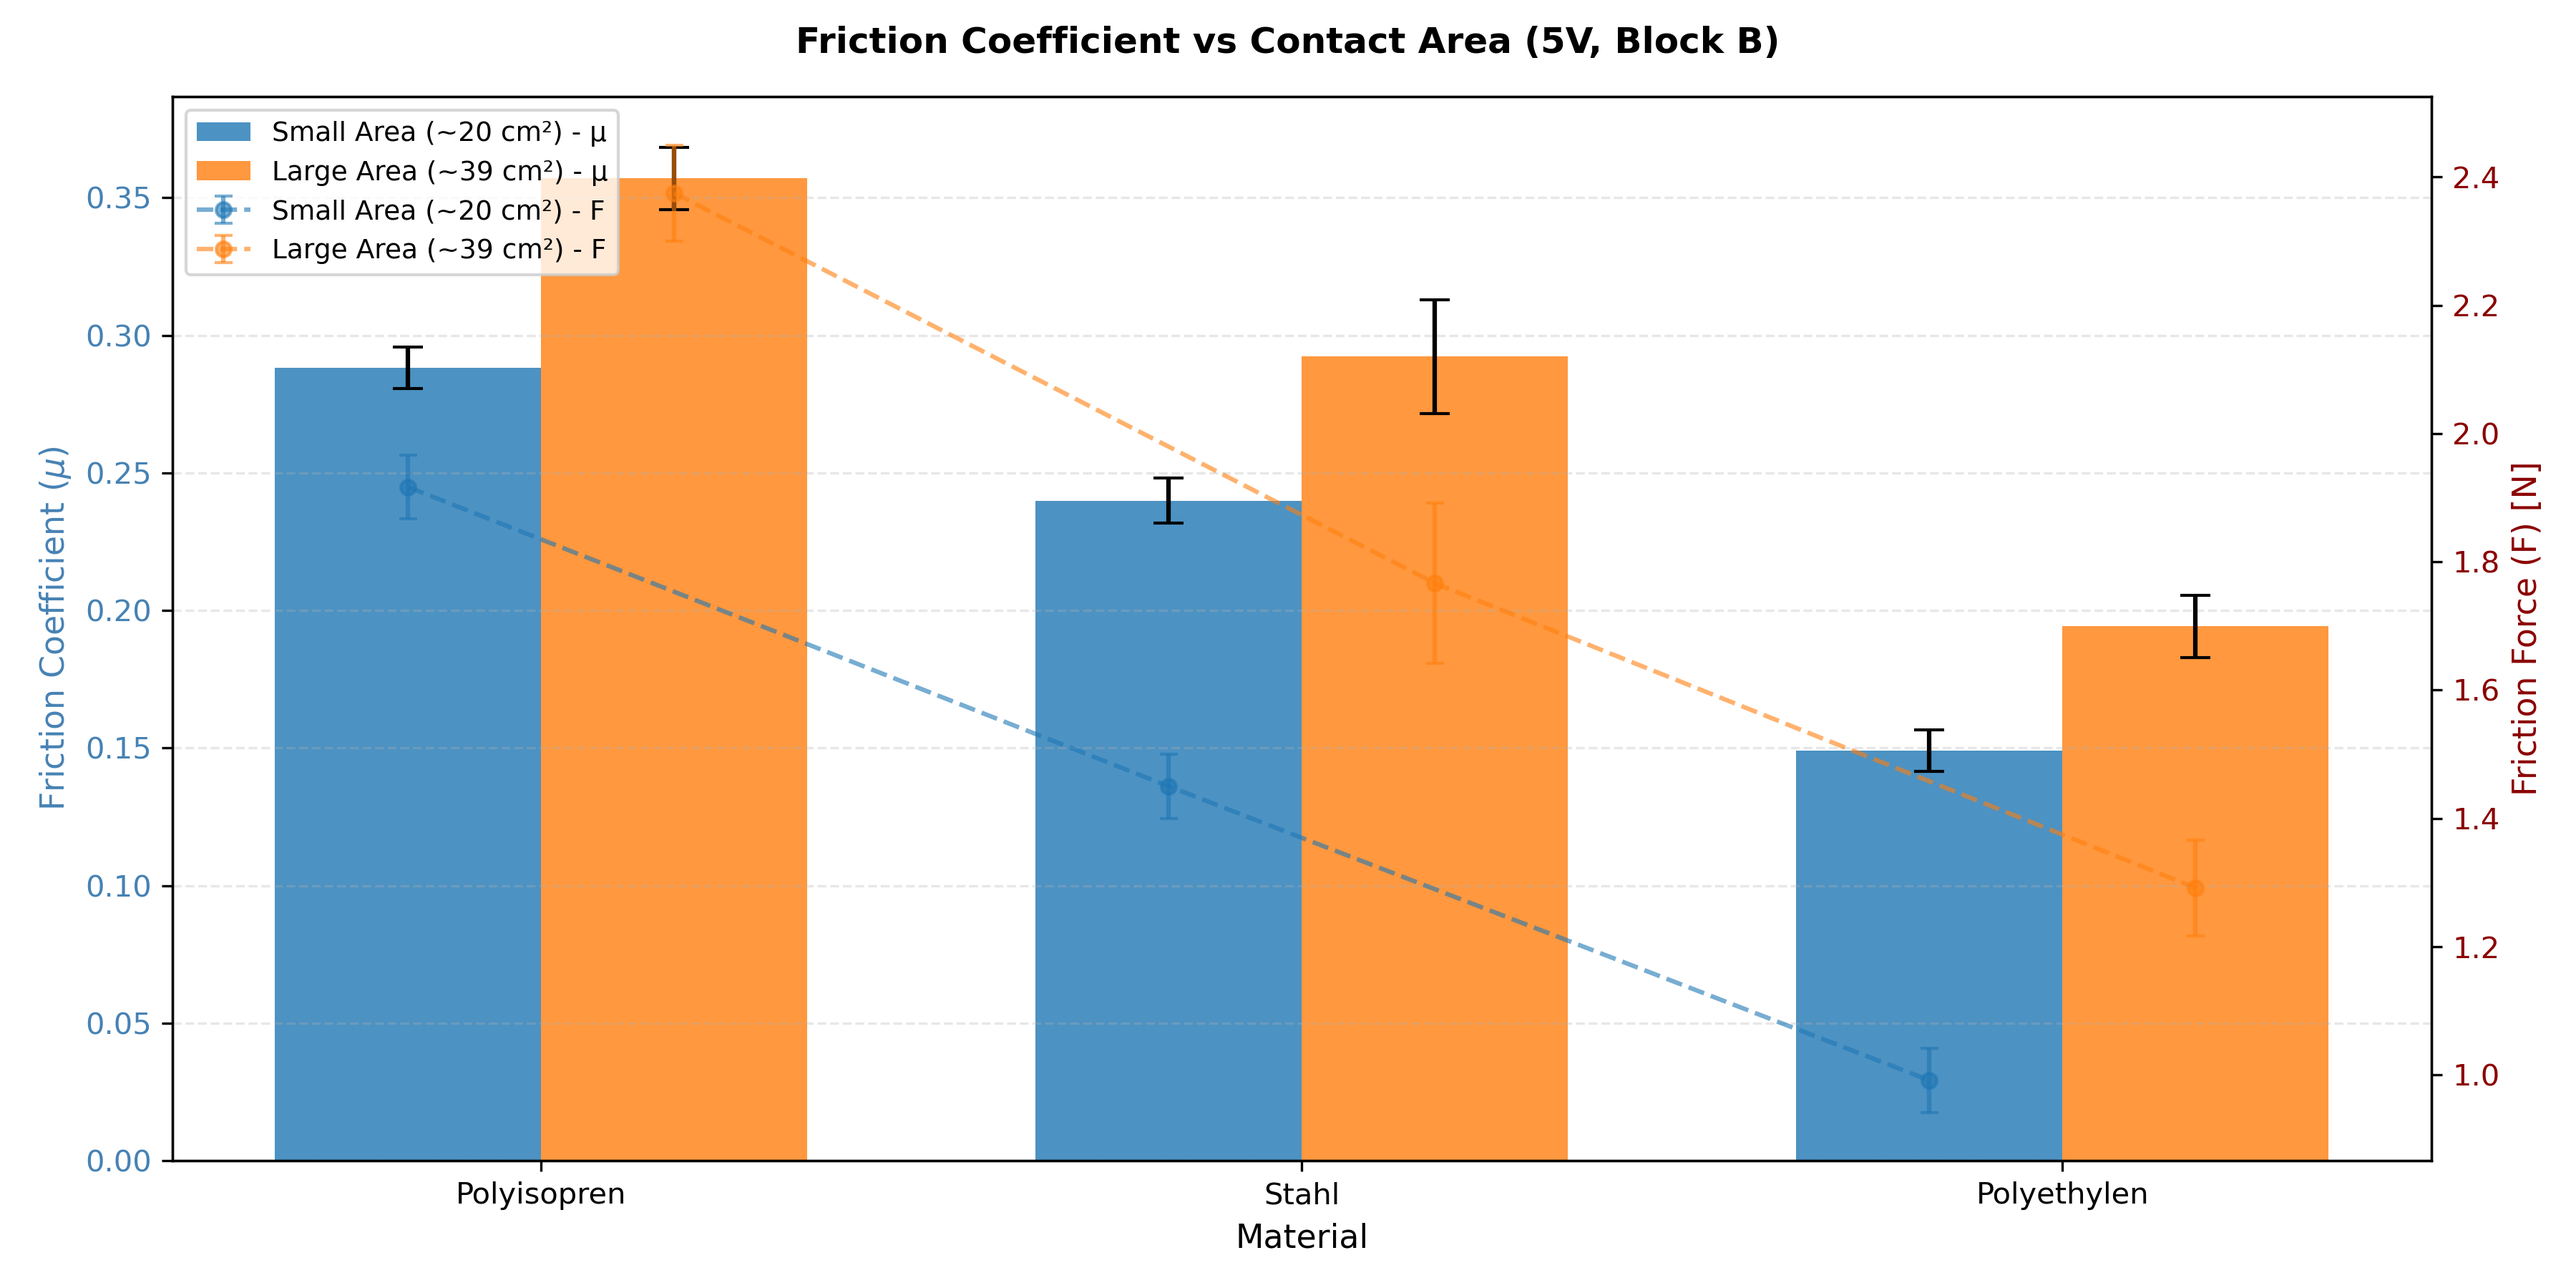
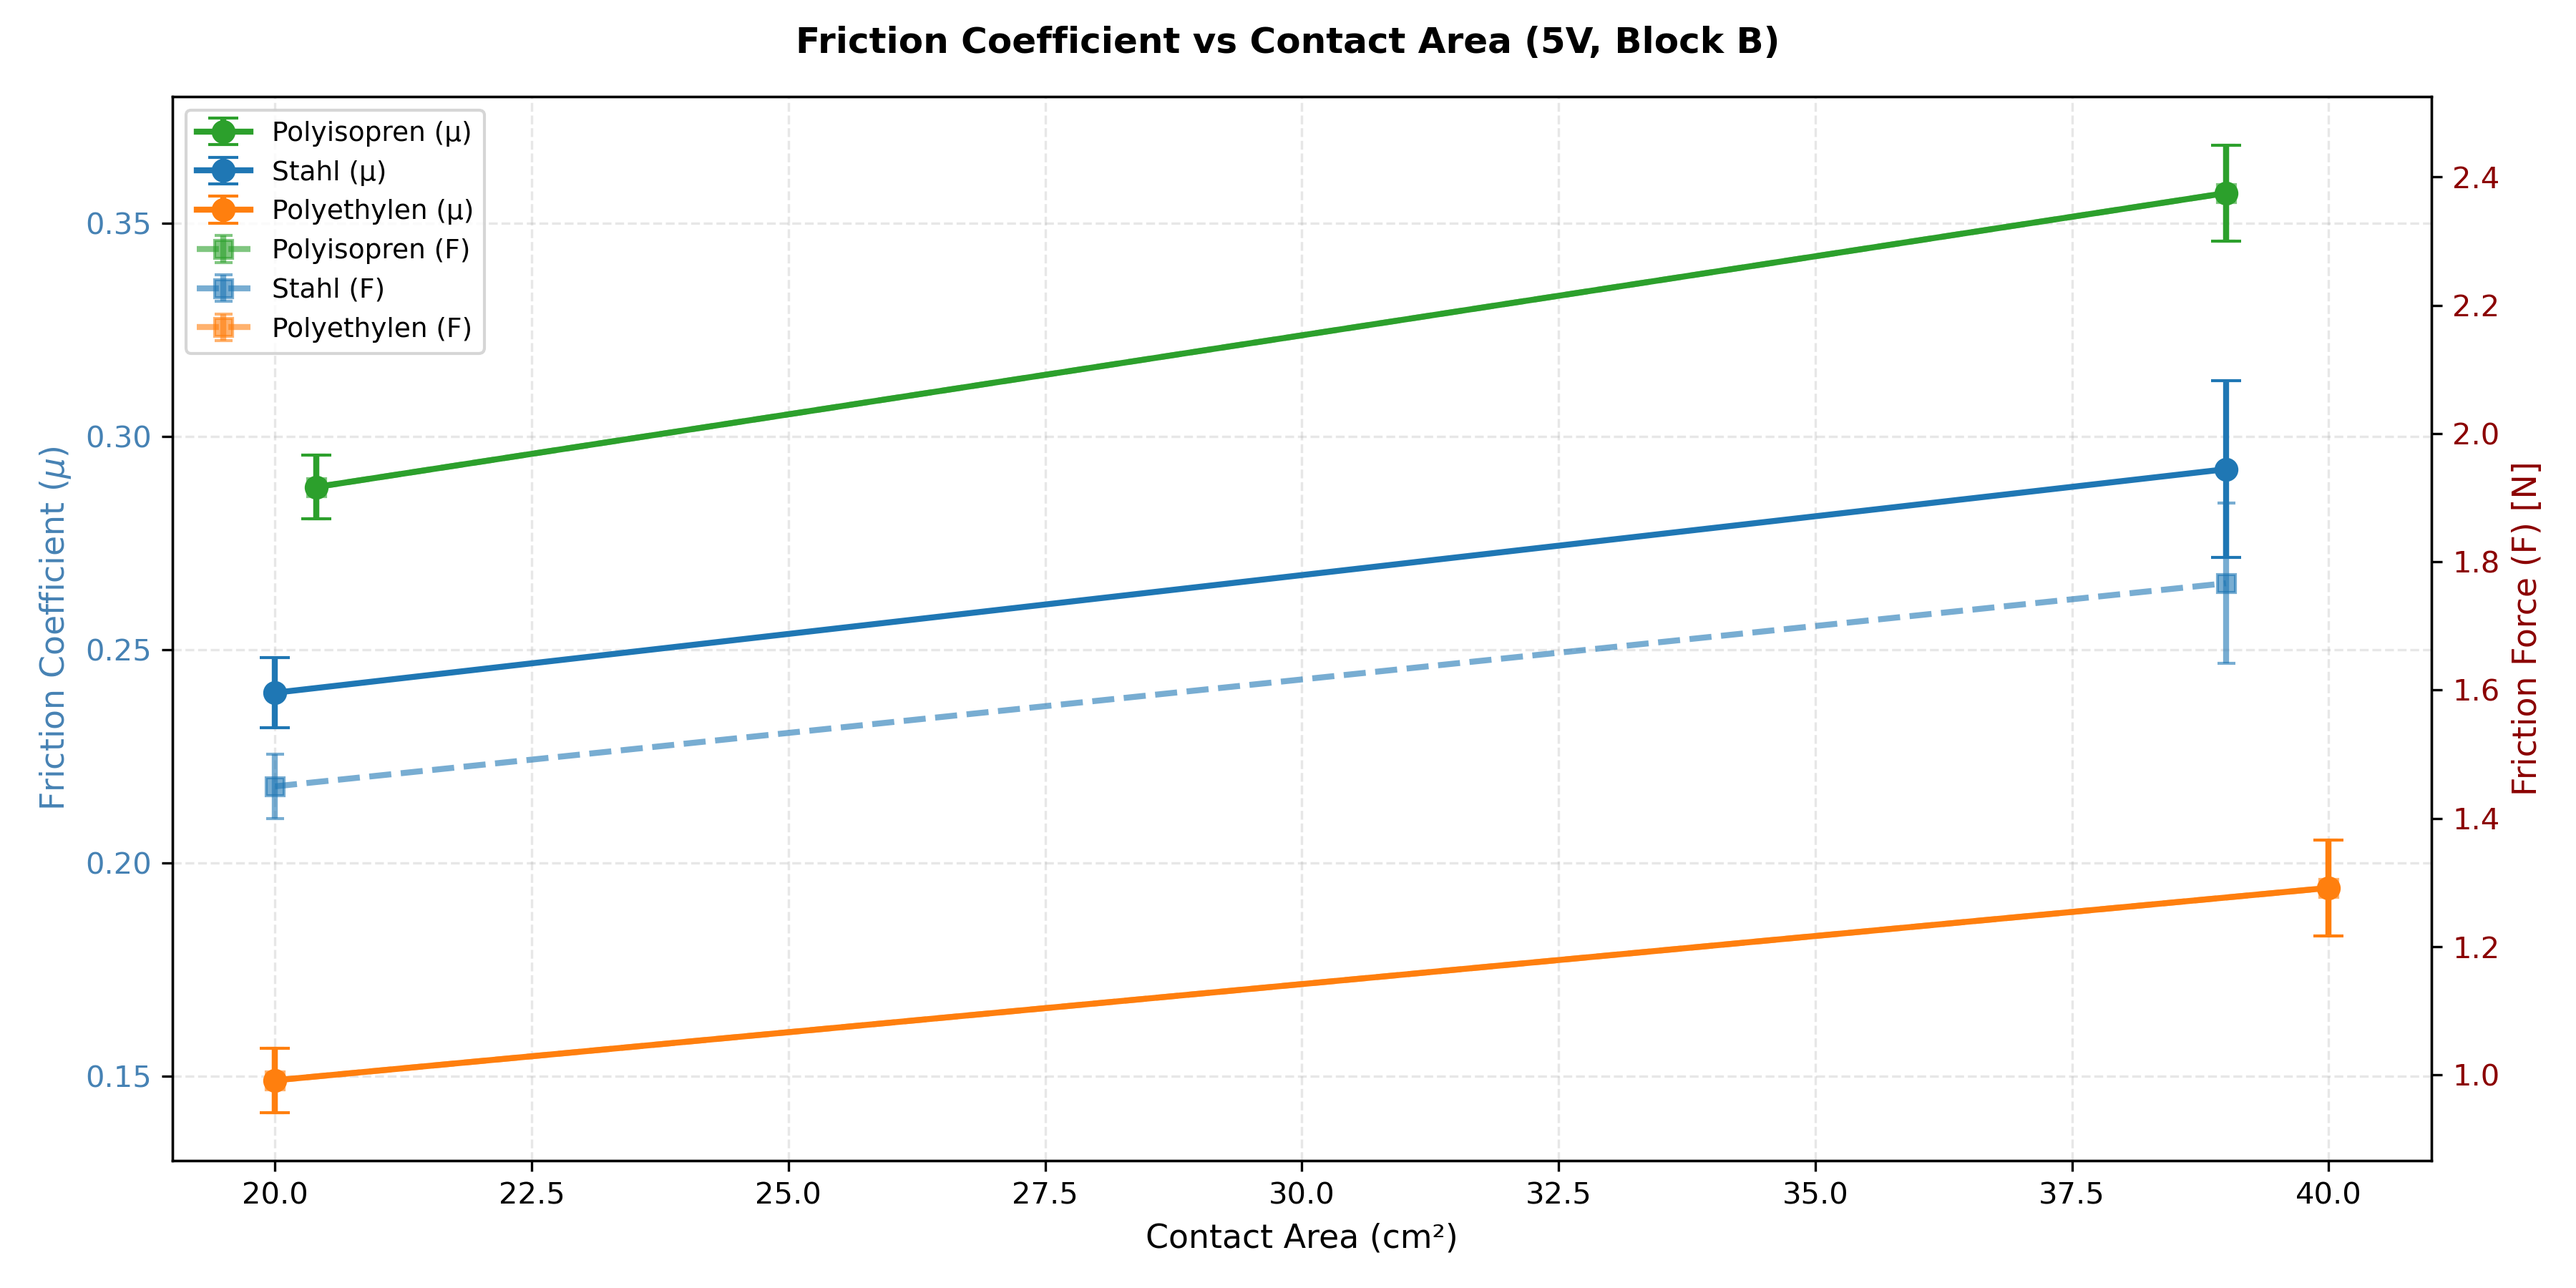
new

diff --git a/src/plot_generator.py b/src/plot_generator.py
@@ -20,7 +20,7 @@ def get_material_label(material_name):
     return material_map.get(material_name, material_name)
 
 def plot_mu_vs_force(df, output_path):
-    r"""图1: 摩擦系数 vs 法向力 (重量变化实验)
+    r"""图1: 摩擦系数 vs 重量 (重量变化实验)
     左Y轴: 摩擦系数 μ
     右Y轴: 摩擦力 F
     """
@@ -37,52 +37,42 @@ def plot_mu_vs_force(df, output_path):
         messwert_delta=('Messwert_Delta', 'max')
     ).reset_index()
 
-    # 排序
+    # 排序并添加重量编号
     block_order = ['B', 'B+1', 'B+1+2', 'B+1+2+3', 'B+1+2+3+4']
     agg_df['Block_Config'] = pd.Categorical(agg_df['Block_Config'], categories=block_order, ordered=True)
     agg_df = agg_df.sort_values('Block_Config')
+    # 将Block_Config映射到数字重量 (1, 2, 3, 4, 5)
+    agg_df['Weight'] = agg_df['Block_Config'].cat.codes + 1
 
-    # 绘制μ (左Y轴)
-    materials = agg_df['Material'].unique()
+    # 颜色定义
     colors = {'Stahl': '#1f77b4', 'Weiss': '#ff7f0e', 'Schwarz': '#2ca02c'}
-    width = 0.25
-    x = np.arange(len(block_order))
     
-    for i, mat in enumerate(materials):
+    # 绘制μ (左Y轴) - 线条图
+    for mat in agg_df['Material'].unique():
         mat_data = agg_df[agg_df['Material'] == mat]
-        # 对齐数据
-        mat_data = mat_data.set_index('Block_Config').reindex(block_order).reset_index()
-        
-        offset = (i - 1) * width
-        ax1.bar(x + offset, mat_data['mu_avg'], width, label=f"{get_material_label(mat)} (μ)", 
-                yerr=mat_data['mu_delta'], capsize=5, alpha=0.8, color=colors.get(mat, None))
+        ax1.errorbar(mat_data['Weight'], mat_data['mu_avg'], yerr=mat_data['mu_delta'], 
+                     label=f"{get_material_label(mat)} (μ)", fmt='-o', capsize=5, 
+                     color=colors.get(mat, None), linewidth=2, markersize=7)
 
-    ax1.set_xlabel('Block Configuration (Mass Increase)', fontsize=11)
+    ax1.set_xlabel('Weight (Number of Blocks)', fontsize=11)
     ax1.set_ylabel(r'Friction Coefficient ($\mu$)', fontsize=11, color='steelblue')
     ax1.tick_params(axis='y', labelcolor='steelblue')
-    ax1.set_xticks(x)
-    ax1.set_xticklabels(block_order)
-    ax1.grid(axis='y', linestyle='--', alpha=0.3)
+    ax1.set_xticks([1, 2, 3, 4, 5])
+    ax1.grid(True, linestyle='--', alpha=0.3)
 
     # 创建右Y轴 (摩擦力F)
     ax2 = ax1.twinx()
     
-    for i, mat in enumerate(materials):
+    for mat in agg_df['Material'].unique():
         mat_data = agg_df[agg_df['Material'] == mat]
-        # 对齐数据
-        mat_data = mat_data.set_index('Block_Config').reindex(block_order).reset_index()
-        
-        offset = (i - 1) * width
-        # 在中心位置绘制F的线条和点
-        x_pos = x + offset
-        ax2.errorbar(x_pos, mat_data['messwert_avg'], yerr=mat_data['messwert_delta'], 
-                    fmt='o--', color=colors.get(mat, None), linewidth=2, 
+        ax2.errorbar(mat_data['Weight'], mat_data['messwert_avg'], yerr=mat_data['messwert_delta'], 
+                    fmt='--s', color=colors.get(mat, None), linewidth=2, 
                     markersize=6, capsize=3, label=f"{get_material_label(mat)} (F)", alpha=0.6)
 
     ax2.set_ylabel('Friction Force (F) [N]', fontsize=11, color='darkred')
     ax2.tick_params(axis='y', labelcolor='darkred')
 
-    fig.suptitle('Friction Coefficient vs Normal Force (5V, Large Area)', fontsize=12, fontweight='bold')
+    fig.suptitle('Friction Coefficient vs Weight (5V, Large Area)', fontsize=12, fontweight='bold')
     
     # 合并两个图例
     lines1, labels1 = ax1.get_legend_handles_labels()
@@ -179,47 +169,29 @@ def plot_mu_vs_area(df, output_path):
         messwert_delta=('Messwert_Delta', 'max')
     ).reset_index()
 
-    materials = agg_df['Material'].unique()
+    # 颜色定义
     colors = {'Stahl': '#1f77b4', 'Weiss': '#ff7f0e', 'Schwarz': '#2ca02c'}
-    x = np.arange(len(materials))
-    width = 0.35
+    
+    # 绘制μ的线条图 (左Y轴) - 按面积排序
+    for mat in agg_df['Material'].unique():
+        mat_data = agg_df[agg_df['Material'] == mat].sort_values('Area_cm2')
+        ax1.errorbar(mat_data['Area_cm2'], mat_data['mu_avg'], yerr=mat_data['mu_delta'],
+                     label=f"{get_material_label(mat)} (μ)", fmt='-o', capsize=5,
+                     color=colors.get(mat, None), linewidth=2, markersize=7)
 
-    # 绘制μ的柱状图 (左Y轴)
-    for i, area_type in enumerate(['Small', 'Large']):
-        type_data = agg_df[agg_df['Area_Type'] == area_type]
-        # 确保对齐
-        type_data = type_data.set_index('Material').reindex(materials).reset_index()
-        
-        offset = (i - 0.5) * width
-        area_val = type_data['Area_cm2'].mean() 
-        label = f"{area_type} Area (~{area_val:.0f} cm²) - μ"
-        
-        ax1.bar(x + offset, type_data['mu_avg'], width, label=label,
-                yerr=type_data['mu_delta'], capsize=5, alpha=0.8)
-
-    ax1.set_xticks(x)
-    ax1.set_xticklabels([get_material_label(mat) for mat in materials])
-    ax1.set_xlabel('Material', fontsize=11)
+    ax1.set_xlabel('Contact Area (cm²)', fontsize=11)
     ax1.set_ylabel(r'Friction Coefficient ($\mu$)', fontsize=11, color='steelblue')
     ax1.tick_params(axis='y', labelcolor='steelblue')
-    ax1.grid(axis='y', linestyle='--', alpha=0.3)
+    ax1.grid(True, linestyle='--', alpha=0.3)
 
     # 创建右Y轴 (摩擦力F)
     ax2 = ax1.twinx()
     
-    for i, area_type in enumerate(['Small', 'Large']):
-        type_data = agg_df[agg_df['Area_Type'] == area_type]
-        type_data = type_data.set_index('Material').reindex(materials).reset_index()
-        
-        offset = (i - 0.5) * width
-        area_val = type_data['Area_cm2'].mean()
-        label = f"{area_type} Area (~{area_val:.0f} cm²) - F"
-        
-        # 在柱状图中间位置绘制F的线条
-        x_pos = x + offset
-        ax2.errorbar(x_pos, type_data['messwert_avg'], yerr=type_data['messwert_delta'], 
-                    fmt='o--', linewidth=1.5, markersize=5, capsize=3, 
-                    label=label, alpha=0.6)
+    for mat in agg_df['Material'].unique():
+        mat_data = agg_df[agg_df['Material'] == mat].sort_values('Area_cm2')
+        ax2.errorbar(mat_data['Area_cm2'], mat_data['messwert_avg'], yerr=mat_data['messwert_delta'],
+                    fmt='--s', color=colors.get(mat, None), linewidth=2,
+                    markersize=6, capsize=3, label=f"{get_material_label(mat)} (F)", alpha=0.6)
 
     ax2.set_ylabel('Friction Force (F) [N]', fontsize=11, color='darkred')
     ax2.tick_params(axis='y', labelcolor='darkred')

diff --git a/test_data.py b/test_data.py
@@ -1,0 +1,12 @@
+import pandas as pd
+df = pd.read_csv('data/processed_data.csv')
+weight_var = df[df['Experiment']=='Weight_Var'].groupby('Block_Config')[['Messwert_Avg','Fn_avg','mu_avg']].mean()
+print(weight_var)
+print('\n摩擦力 vs 法向力 的增长率:')
+f_start = weight_var.iloc[0]['Messwert_Avg']
+fn_start = weight_var.iloc[0]['Fn_avg']
+f_end = weight_var.iloc[-1]['Messwert_Avg']
+fn_end = weight_var.iloc[-1]['Fn_avg']
+print(f'摩擦力: {f_start:.2f} -> {f_end:.2f} (增长 {(f_end/f_start-1)*100:.1f}%)')
+print(f'法向力: {fn_start:.2f} -> {fn_end:.2f} (增长 {(fn_end/fn_start-1)*100:.1f}%)')
+print(f'摩擦系数: {weight_var.iloc[0]["mu_avg"]:.4f} -> {weight_var.iloc[-1]["mu_avg"]:.4f}')
